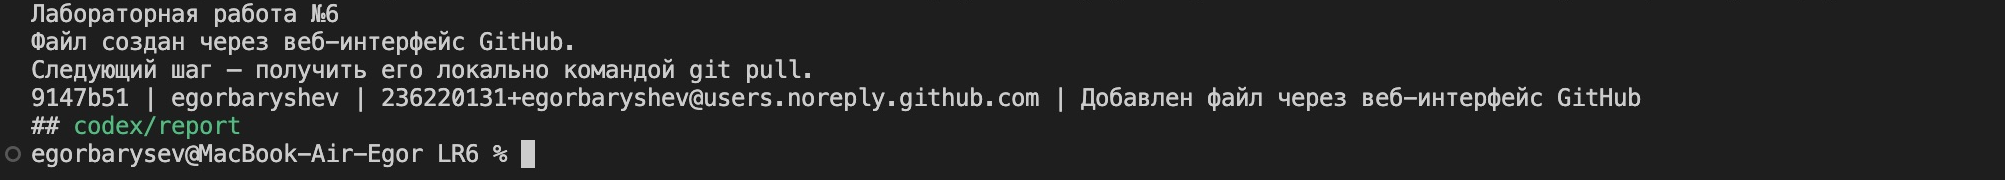
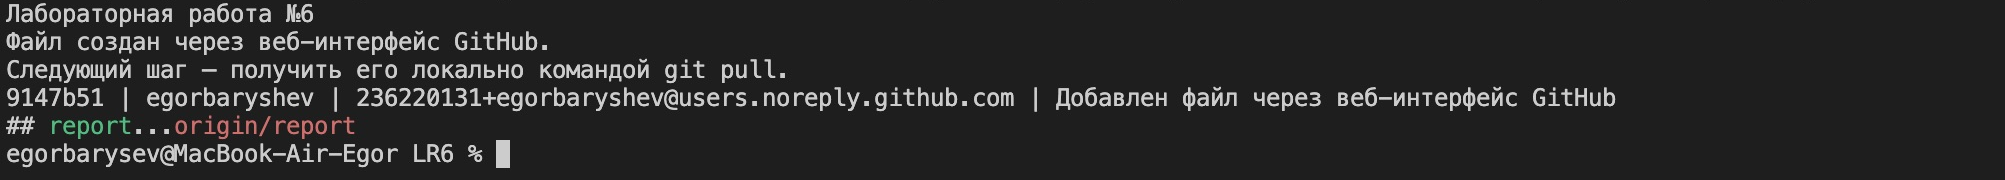
Обновлены снимки проверки ветки report

diff --git a/README.md b/README.md
@@ -88,7 +88,7 @@ Merge-коммит и удаление локальной branch1.
 
 ### Рисунок 10
 
-Проверка отправки master и report на GitHub и удаление объединённой удалённой ветки branch1.
+Проверка отправки master и report на GitHub.
 
 ![Проверка синхронизации](screenshots/10-push.png)
 
